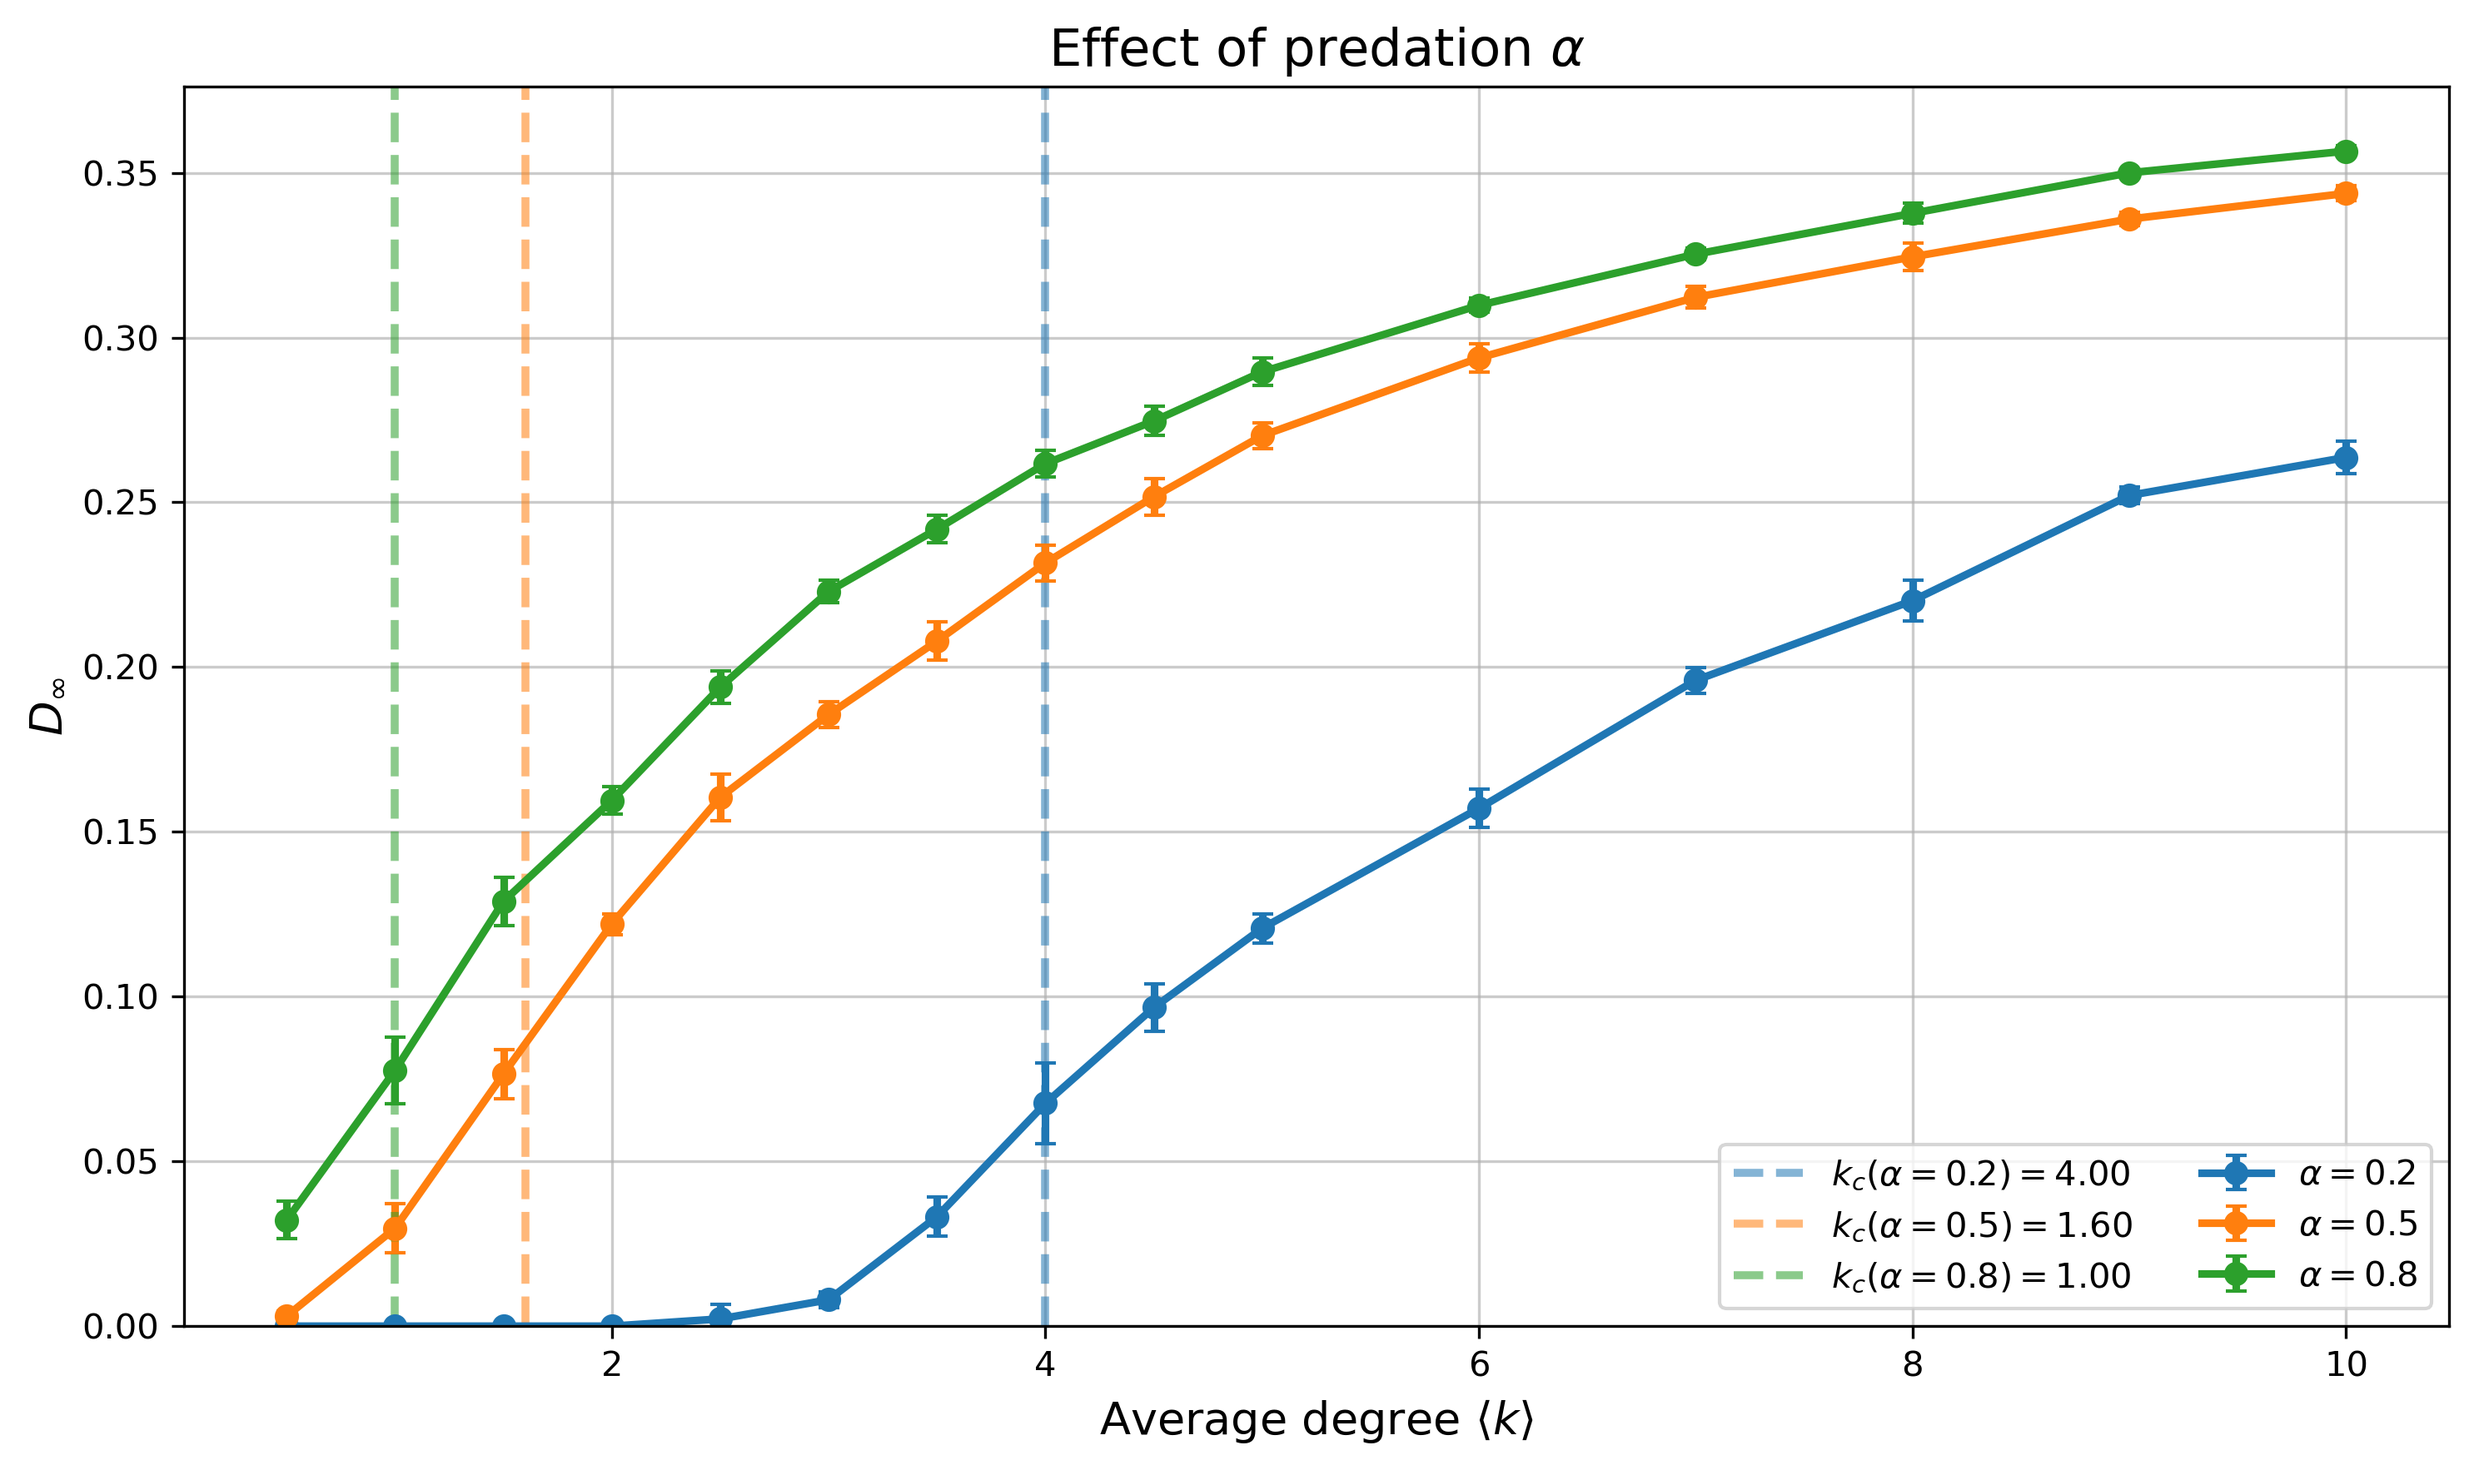
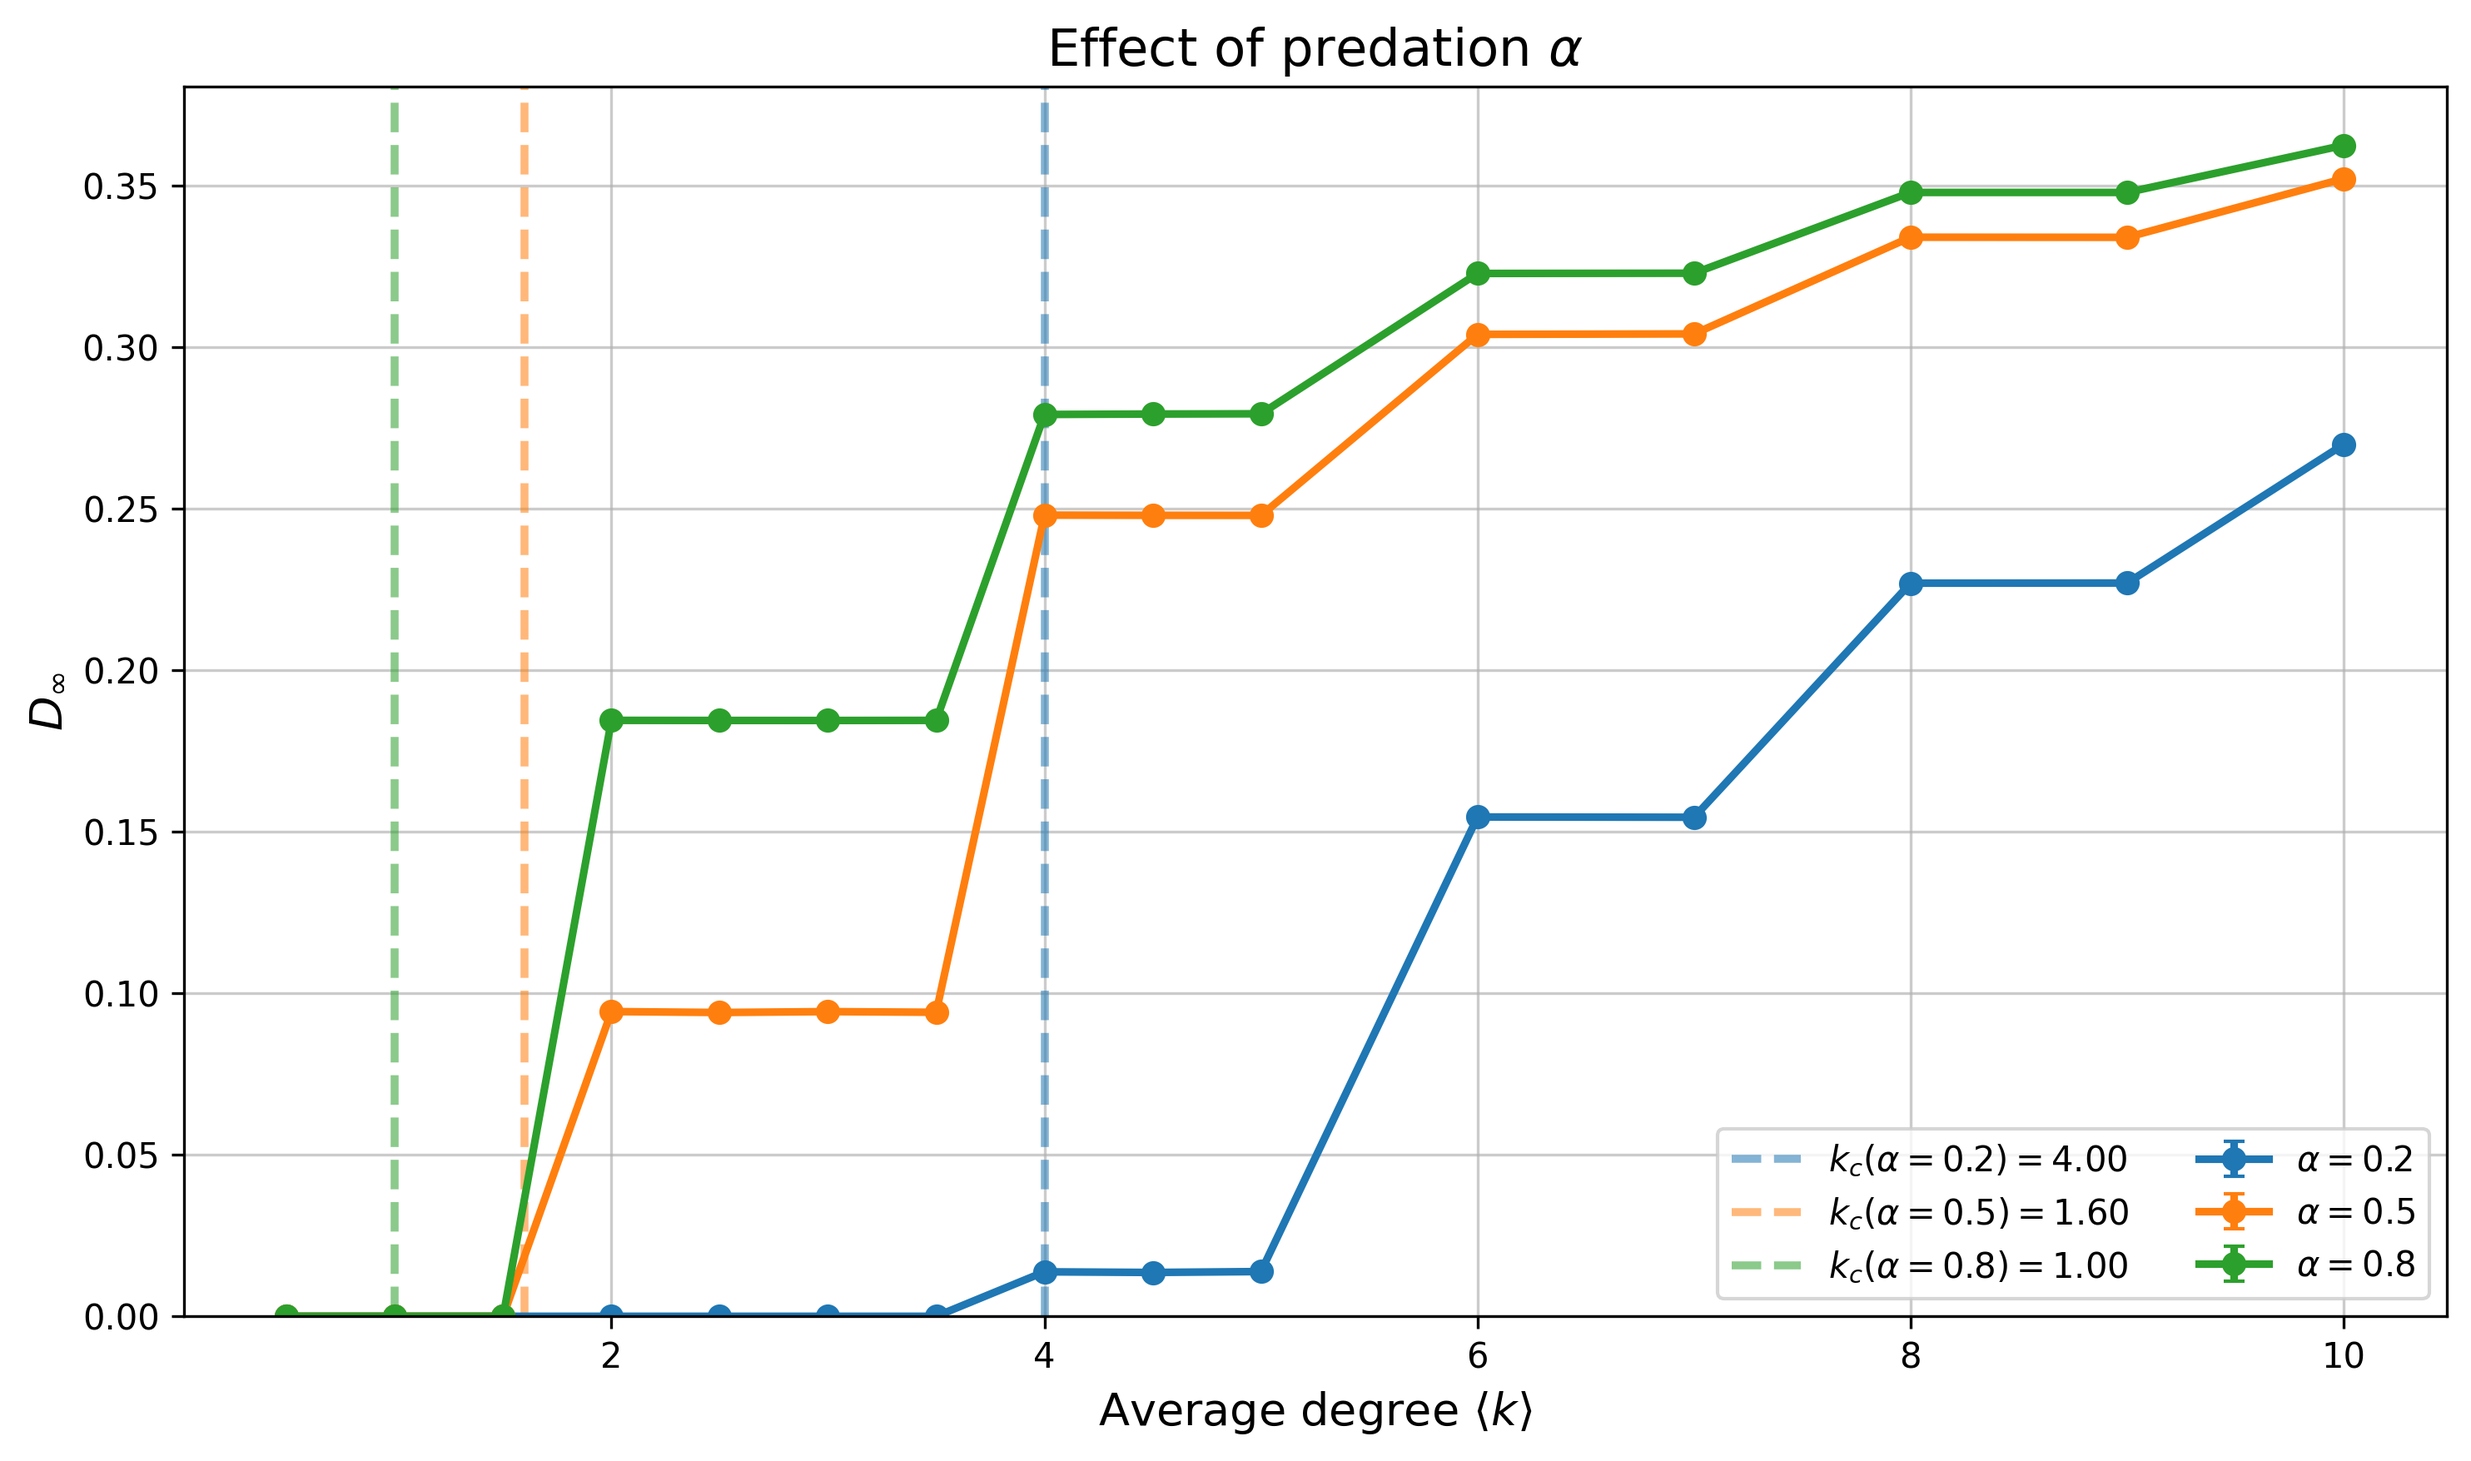
Redes otra vez

diff --git a/code/src/visualization/plots.py b/code/src/visualization/plots.py
@@ -330,7 +330,7 @@ def _plot_mu_variation(k_values, P0, D0, H0, T_markov, n_realizations, tail):
 
     for mu in mu_values:
         _, D_inf, _, _, D_std, _ = stationary_state_vs_degree(
-            generate_er_graph_func=generate_er_graph_from_k,
+            generate_er_graph_func=generate_graph(GRAPH_TYPE),
             n_nodes=N_NODES,
             k_values=k_values,
             beta=BETA,
@@ -390,7 +390,7 @@ def _plot_beta_variation(k_values, P0, D0, H0, T_markov, n_realizations, tail):
 
     for beta in beta_values:
         _, D_inf, _, _, D_std, _ = stationary_state_vs_degree(
-            generate_er_graph_func=generate_er_graph_from_k,
+            generate_er_graph_func=generate_graph(GRAPH_TYPE),
             n_nodes=N_NODES,
             k_values=k_values,
             beta=beta,
@@ -449,7 +449,7 @@ def _plot_alpha_variation(k_values, P0, D0, H0, T_markov, n_realizations, tail):
 
     for alpha in alpha_values:
         _, D_inf, _, _, D_std, _ = stationary_state_vs_degree(
-            generate_er_graph_func=generate_er_graph_from_k,
+            generate_er_graph_func=generate_graph(GRAPH_TYPE),
             n_nodes=N_NODES,
             k_values=k_values,
             beta=BETA,

diff --git a/code/config.py b/code/config.py
@@ -63,12 +63,12 @@ INITIAL_PROPORTIONS = [P_PROPORTION, D_PROPORTION, H_PROPORTION]
 # =========================================================
 
 RUN_ORIGINAL = False
-RUN_MARKOV_INDIVIDUAL = True
-RUN_MARKOV_COMBINED = True
-RUN_STATIONARY = True
-RUN_STATIONARY_PARAMETER_VARIATION = False
-RUN_HEATMAP = True
-RUN_ANIMATION = True
+RUN_MARKOV_INDIVIDUAL = False
+RUN_MARKOV_COMBINED = False
+RUN_STATIONARY = False
+RUN_STATIONARY_PARAMETER_VARIATION = True
+RUN_HEATMAP = False
+RUN_ANIMATION = False
 
 
 # =========================================================

diff --git a/code/src/graphs/generate_graphs.py b/code/src/graphs/generate_graphs.py
@@ -41,7 +41,7 @@ def generate_graph(graph_type):
     """
 
     if graph_type == "erdos":
-        return nx.erdos_renyi_graph(N_NODES, ERDOS_P)
+        return generate_er_graph_from_k(N_NODES, ERDOS_P)
 
     if graph_type == "barabasi":
         return nx.barabasi_albert_graph(N_NODES, BARABASI_M)
